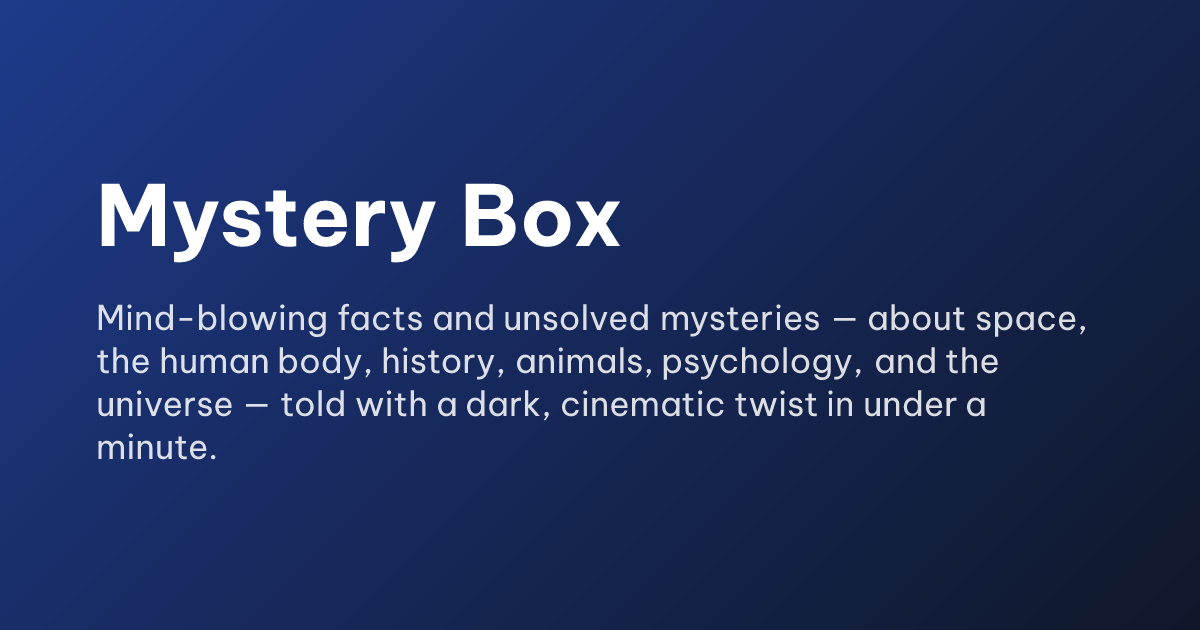
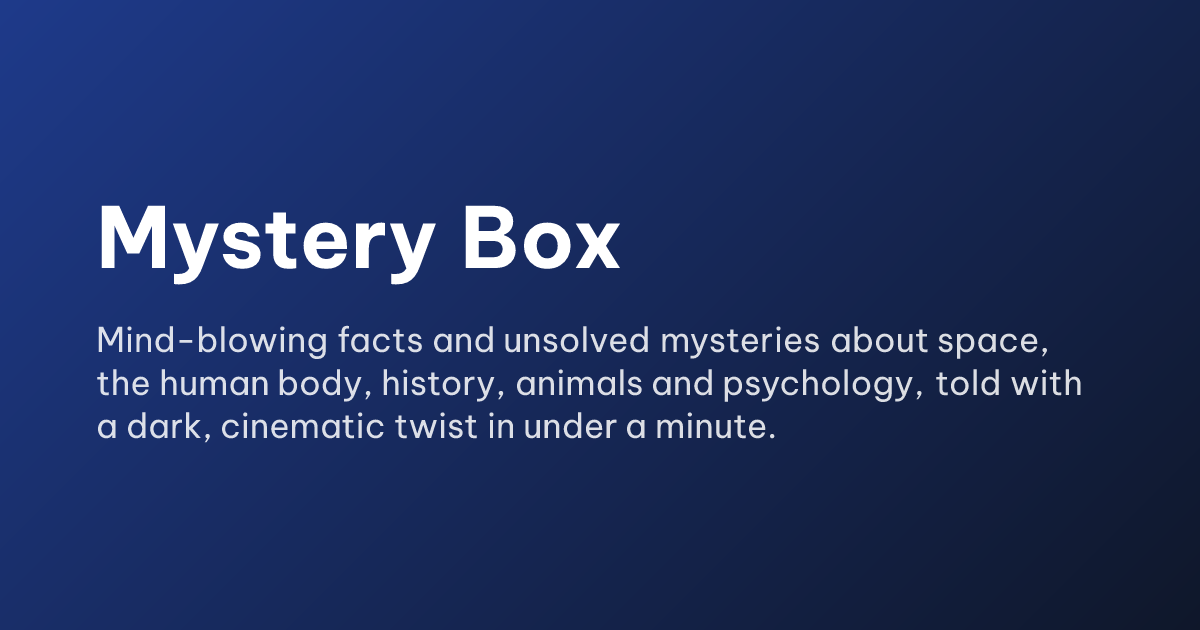
fix(seo): one h1 per page, unique descriptions for paginated and category pages
- demote markdown '# ' headings to h2 (70 posts rendered two h1s)
- paginated home pages get an h1 and their own description
- shorten site description to 156 chars; richer category descriptions

Claude-Session: https://claude.ai/code/session_0149pjmmpwrhXH2cGUe6Y2Xk

Changed region(s): [[0.0617, 0.4825, 0.8942, 0.754], [0.0617, 0.2714, 0.5242, 0.4524]]

diff --git a/src/consts.ts b/src/consts.ts
@@ -10,7 +10,7 @@ export const SITE_NAME = "Mystery Box";
 
 /** Mô tả mặc định của trang (dùng khi bài viết không có description) */
 export const SITE_DESCRIPTION =
-  "Mind-blowing facts and unsolved mysteries — about space, the human body, history, animals, psychology, and the universe — told with a dark, cinematic twist in under a minute.";
+  "Mind-blowing facts and unsolved mysteries about space, the human body, history, animals and psychology, told with a dark, cinematic twist in under a minute.";
 
 /** Ngôn ngữ trang */
 export const SITE_LANG = "en";
